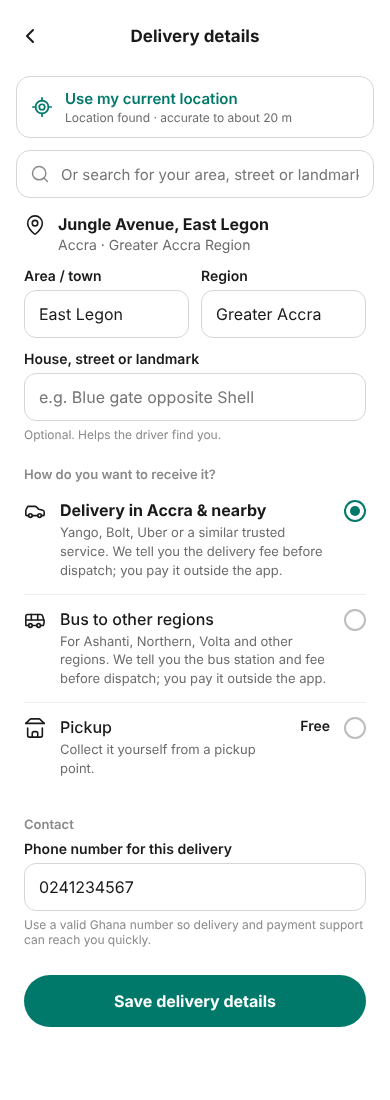
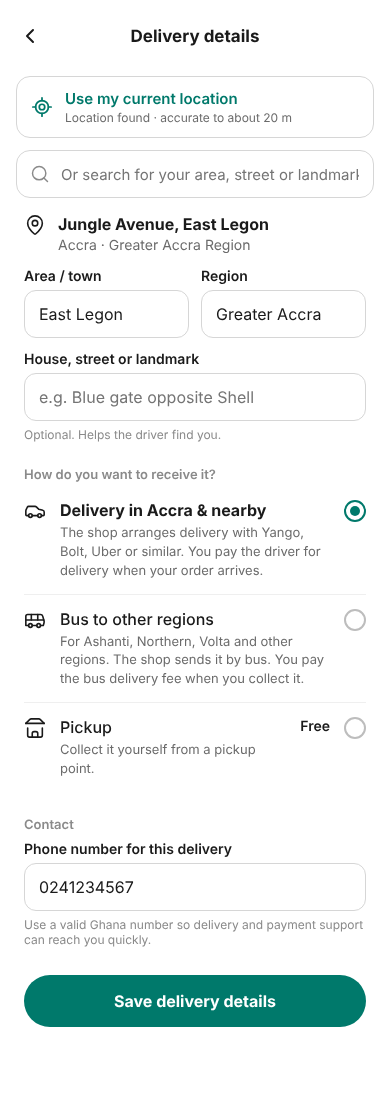
Design proposal: shop arranges delivery, customer pays driver on arrival
Claude-Session: https://claude.ai/code/session_01SbEcenhopHZbQU3YJabaBM

diff --git a/docs/design/location-checkout-20261128/TrackOrder.dc.html b/docs/design/location-checkout-20261128/TrackOrder.dc.html
@@ -21,12 +21,12 @@
   <div style="padding: 4px 24px 0">
     <div style="display: flex; gap: 14px; min-height: 62px"><div style="display: flex; flex-direction: column; align-items: center"><span style="width: 22px; height: 22px; border-radius: 11px; background: #00796B; display: grid; place-items: center"><svg style="flex-shrink: 0" width="14" height="14" viewBox="0 0 24 24" fill="none" stroke="#FFFFFF" stroke-width="3" stroke-linecap="round" stroke-linejoin="round" aria-hidden="true"><path d="M20 6 9 17l-5-5"/></svg></span><span style="flex: 1; width: 2px; background: #00796B; margin: 2px 0"></span></div><div style="padding-top: 1px"><div style="font-size: 15px; font-weight: 500; color: #1A1A1A">Order placed</div><div style="font-size: 13px; color: #6B6B6B; margin-top: 2px">28 Nov, 10:42 · Payment received</div></div></div>
     <div style="display: flex; gap: 14px; min-height: 62px"><div style="display: flex; flex-direction: column; align-items: center"><span style="width: 22px; height: 22px; border-radius: 11px; background: #00796B; display: grid; place-items: center"><svg style="flex-shrink: 0" width="14" height="14" viewBox="0 0 24 24" fill="none" stroke="#FFFFFF" stroke-width="3" stroke-linecap="round" stroke-linejoin="round" aria-hidden="true"><path d="M20 6 9 17l-5-5"/></svg></span><span style="flex: 1; width: 2px; background: #00796B; margin: 2px 0"></span></div><div style="padding-top: 1px"><div style="font-size: 15px; font-weight: 500; color: #1A1A1A">Preparing delivery</div><div style="font-size: 13px; color: #6B6B6B; margin-top: 2px">28 Nov, 11:05 · The shop is getting it ready</div></div></div>
-    <div style="display: flex; gap: 14px; min-height: 62px"><div style="display: flex; flex-direction: column; align-items: center"><span style="width: 22px; height: 22px; border-radius: 11px; border: 2px solid #00796B; box-sizing: border-box; display: grid; place-items: center"><span style="width: 10px; height: 10px; border-radius: 5px; background: #00796B"></span></span><span style="flex: 1; width: 2px; background: #E3E3E3; margin: 2px 0"></span></div><div style="padding-top: 1px"><div style="font-size: 15px; font-weight: 700; color: #1A1A1A">Packaged</div><div style="font-size: 13px; color: #6B6B6B; margin-top: 2px">28 Nov, 14:20 · We&#x27;ll send your delivery fee next</div></div></div>
+    <div style="display: flex; gap: 14px; min-height: 62px"><div style="display: flex; flex-direction: column; align-items: center"><span style="width: 22px; height: 22px; border-radius: 11px; border: 2px solid #00796B; box-sizing: border-box; display: grid; place-items: center"><span style="width: 10px; height: 10px; border-radius: 5px; background: #00796B"></span></span><span style="flex: 1; width: 2px; background: #E3E3E3; margin: 2px 0"></span></div><div style="padding-top: 1px"><div style="font-size: 15px; font-weight: 700; color: #1A1A1A">Packaged</div><div style="font-size: 13px; color: #6B6B6B; margin-top: 2px">28 Nov, 14:20 · The shop is arranging delivery</div></div></div>
     <div style="display: flex; gap: 14px; min-height: 62px"><div style="display: flex; flex-direction: column; align-items: center"><span style="width: 22px; height: 22px; border-radius: 11px; border: 2px solid #D0D0D0; box-sizing: border-box"></span><span style="flex: 1; width: 2px; background: #E3E3E3; margin: 2px 0"></span></div><div style="padding-top: 1px"><div style="font-size: 15px; font-weight: 500; color: #9A9A9A">On the way</div><div style="font-size: 13px; color: #6B6B6B; margin-top: 2px">Yango, Bolt, Uber or similar</div></div></div>
     <div style="display: flex; gap: 14px; min-height: 44px"><div style="display: flex; flex-direction: column; align-items: center"><span style="width: 22px; height: 22px; border-radius: 11px; border: 2px solid #D0D0D0; box-sizing: border-box"></span></div><div style="padding-top: 1px"><div style="font-size: 15px; font-weight: 500; color: #9A9A9A">Completed</div><div style="font-size: 13px; color: #6B6B6B; margin-top: 2px">You&#x27;ve received your parcel</div></div></div>
   </div>
-<div style="padding: 24px 24px 4px; font-size: 13px; font-weight: 600; color: #8A8A8A">Delivery fee</div>
-  <div style="margin: 0 24px; display: flex; gap: 14px; align-items: flex-start; padding: 6px 0 14px; border-bottom: 1px solid #EFEFEF"><svg style="flex-shrink: 0" width="22" height="22" viewBox="0 0 24 24" fill="none" stroke="#1A1A1A" stroke-width="1.75" stroke-linecap="round" stroke-linejoin="round" aria-hidden="true"><path d="M14 18V6a2 2 0 0 0-2-2H4a2 2 0 0 0-2 2v11a1 1 0 0 0 1 1h2"/><path d="M15 18H9"/><path d="M19 18h2a1 1 0 0 0 1-1v-3.65a1 1 0 0 0-.22-.624l-3.48-4.35A1 1 0 0 0 17.52 8H14"/><circle cx="17" cy="18" r="2"/><circle cx="7" cy="18" r="2"/></svg><div style="flex: 1"><div style="display: flex; justify-content: space-between; font-size: 15px; font-weight: 600"><span>To be confirmed</span></div><div style="font-size: 13px; color: #6B6B6B; margin-top: 3px; line-height: 1.45">We'll send you the amount here before dispatch. You pay it outside the app when delivery is arranged.</div></div></div>
+<div style="padding: 24px 24px 4px; font-size: 13px; font-weight: 600; color: #8A8A8A">Delivery</div>
+  <div style="margin: 0 24px; display: flex; gap: 14px; align-items: flex-start; padding: 6px 0 14px; border-bottom: 1px solid #EFEFEF"><svg style="flex-shrink: 0" width="22" height="22" viewBox="0 0 24 24" fill="none" stroke="#1A1A1A" stroke-width="1.75" stroke-linecap="round" stroke-linejoin="round" aria-hidden="true"><path d="M14 18V6a2 2 0 0 0-2-2H4a2 2 0 0 0-2 2v11a1 1 0 0 0 1 1h2"/><path d="M15 18H9"/><path d="M19 18h2a1 1 0 0 0 1-1v-3.65a1 1 0 0 0-.22-.624l-3.48-4.35A1 1 0 0 0 17.52 8H14"/><circle cx="17" cy="18" r="2"/><circle cx="7" cy="18" r="2"/></svg><div style="flex: 1"><div style="display: flex; justify-content: space-between; font-size: 15px; font-weight: 600"><span>Arranged by Adwoa Styles</span></div><div style="font-size: 13px; color: #6B6B6B; margin-top: 3px; line-height: 1.45">Sent with Yango, Bolt, Uber or similar. You pay the driver for delivery when your parcel arrives.</div></div></div>
 <div style="padding: 24px 24px 4px; font-size: 13px; font-weight: 600; color: #8A8A8A">Deliver to</div>
   <div style="margin: 0 24px; padding: 6px 0 14px; border-bottom: 1px solid #EFEFEF; display: flex; gap: 14px"><svg style="flex-shrink: 0" width="22" height="22" viewBox="0 0 24 24" fill="none" stroke="#1A1A1A" stroke-width="1.75" stroke-linecap="round" stroke-linejoin="round" aria-hidden="true"><path d="M20 10c0 4.993-5.539 10.193-7.399 11.799a1 1 0 0 1-1.202 0C9.539 20.193 4 14.993 4 10a8 8 0 0 1 16 0"/><circle cx="12" cy="10" r="3"/></svg><div><div style="font-size: 15px; font-weight: 600">Jungle Avenue, East Legon</div><div style="font-size: 13px; color: #6B6B6B; margin-top: 2px">Accra · Greater Accra Region</div><div style="display: flex; align-items: center; gap: 8px; font-size: 14px; margin-top: 8px"><svg style="flex-shrink: 0" width="18" height="18" viewBox="0 0 24 24" fill="none" stroke="#1A1A1A" stroke-width="1.75" stroke-linecap="round" stroke-linejoin="round" aria-hidden="true"><path d="M19 17h2c.6 0 1-.4 1-1v-3c0-.9-.7-1.7-1.5-1.9C18.7 10.6 16 10 16 10s-1.3-1.4-2.2-2.3c-.5-.4-1.1-.7-1.8-.7H5c-.6 0-1.1.4-1.4.9l-1.4 2.9A3.7 3.7 0 0 0 2 12v4c0 .6.4 1 1 1h2"/><circle cx="7" cy="17" r="2"/><path d="M9 17h6"/><circle cx="17" cy="17" r="2"/></svg>Delivery in Accra & nearby</div><div style="display: flex; align-items: center; gap: 8px; font-size: 14px; margin-top: 6px"><svg style="flex-shrink: 0" width="18" height="18" viewBox="0 0 24 24" fill="none" stroke="#1A1A1A" stroke-width="1.75" stroke-linecap="round" stroke-linejoin="round" aria-hidden="true"><path d="M22 16.92v3a2 2 0 0 1-2.18 2 19.79 19.79 0 0 1-8.63-3.07 19.5 19.5 0 0 1-6-6 19.79 19.79 0 0 1-3.07-8.67A2 2 0 0 1 4.11 2h3a2 2 0 0 1 2 1.72 12.84 12.84 0 0 0 .7 2.81 2 2 0 0 1-.45 2.11L8.09 9.91a16 16 0 0 0 6 6l1.27-1.27a2 2 0 0 1 2.11-.45 12.84 12.84 0 0 0 2.81.7A2 2 0 0 1 22 16.92z"/></svg>024 123 4567</div></div></div>
 <div style="padding: 24px 24px 4px; font-size: 13px; font-weight: 600; color: #8A8A8A">Items</div>

diff --git a/docs/design/location-checkout-20261128/LocationPickup.dc.html b/docs/design/location-checkout-20261128/LocationPickup.dc.html
@@ -24,8 +24,8 @@
   <div style="display: flex; gap: 12px; align-items: flex-start; margin: 16px 24px 0"><svg style="flex-shrink: 0" width="22" height="22" viewBox="0 0 24 24" fill="none" stroke="#1A1A1A" stroke-width="1.75" stroke-linecap="round" stroke-linejoin="round" aria-hidden="true"><path d="M20 10c0 4.993-5.539 10.193-7.399 11.799a1 1 0 0 1-1.202 0C9.539 20.193 4 14.993 4 10a8 8 0 0 1 16 0"/><circle cx="12" cy="10" r="3"/></svg><div style="flex: 1"><div style="font-size: 16px; font-weight: 700">Jungle Avenue, East Legon</div><div style="font-size: 14px; color: #6B6B6B; margin-top: 2px">Accra · Greater Accra Region</div></div></div>
 <div style="padding: 24px 24px 4px; font-size: 13px; font-weight: 600; color: #8A8A8A">How do you want to receive it?</div>
   <div style="padding: 0 24px">
-    <div style="border-bottom: 1px solid #EFEFEF;"><label style="display: flex; align-items: flex-start; gap: 14px; padding: 14px 0; cursor: pointer"><svg style="flex-shrink: 0" width="22" height="22" viewBox="0 0 24 24" fill="none" stroke="#1A1A1A" stroke-width="1.75" stroke-linecap="round" stroke-linejoin="round" aria-hidden="true"><path d="M19 17h2c.6 0 1-.4 1-1v-3c0-.9-.7-1.7-1.5-1.9C18.7 10.6 16 10 16 10s-1.3-1.4-2.2-2.3c-.5-.4-1.1-.7-1.8-.7H5c-.6 0-1.1.4-1.4.9l-1.4 2.9A3.7 3.7 0 0 0 2 12v4c0 .6.4 1 1 1h2"/><circle cx="7" cy="17" r="2"/><path d="M9 17h6"/><circle cx="17" cy="17" r="2"/></svg><span style="flex: 1"><span style="display: block; font-size: 16px; font-weight: 500">Delivery in Accra &amp; nearby</span><span style="display: block; font-size: 13px; color: #6B6B6B; margin-top: 3px; line-height: 1.45">Yango, Bolt, Uber or a similar trusted service. We tell you the delivery fee before dispatch; you pay it outside the app.</span></span><span style="width: 22px; height: 22px; border-radius: 11px; border: 2px solid #BDBDBD; box-sizing: border-box; flex-shrink: 0"></span></label></div>
-    <div style="border-bottom: 1px solid #EFEFEF;"><label style="display: flex; align-items: flex-start; gap: 14px; padding: 14px 0; cursor: pointer"><svg style="flex-shrink: 0" width="22" height="22" viewBox="0 0 24 24" fill="none" stroke="#1A1A1A" stroke-width="1.75" stroke-linecap="round" stroke-linejoin="round" aria-hidden="true"><path d="M8 6v6"/><path d="M15 6v6"/><path d="M2 12h19.6"/><path d="M18 18h3s.5-1.7.8-2.8c.1-.4.2-.8.2-1.2 0-.4-.1-.8-.2-1.2l-1.4-5C20.1 6.8 19.1 6 18 6H4a2 2 0 0 0-2 2v10h3"/><circle cx="7" cy="18" r="2"/><path d="M9 18h5"/><circle cx="16" cy="18" r="2"/></svg><span style="flex: 1"><span style="display: block; font-size: 16px; font-weight: 500">Bus to other regions</span><span style="display: block; font-size: 13px; color: #6B6B6B; margin-top: 3px; line-height: 1.45">For Ashanti, Northern, Volta and other regions. We tell you the bus station and fee before dispatch; you pay it outside the app.</span></span><span style="width: 22px; height: 22px; border-radius: 11px; border: 2px solid #BDBDBD; box-sizing: border-box; flex-shrink: 0"></span></label></div>
+    <div style="border-bottom: 1px solid #EFEFEF;"><label style="display: flex; align-items: flex-start; gap: 14px; padding: 14px 0; cursor: pointer"><svg style="flex-shrink: 0" width="22" height="22" viewBox="0 0 24 24" fill="none" stroke="#1A1A1A" stroke-width="1.75" stroke-linecap="round" stroke-linejoin="round" aria-hidden="true"><path d="M19 17h2c.6 0 1-.4 1-1v-3c0-.9-.7-1.7-1.5-1.9C18.7 10.6 16 10 16 10s-1.3-1.4-2.2-2.3c-.5-.4-1.1-.7-1.8-.7H5c-.6 0-1.1.4-1.4.9l-1.4 2.9A3.7 3.7 0 0 0 2 12v4c0 .6.4 1 1 1h2"/><circle cx="7" cy="17" r="2"/><path d="M9 17h6"/><circle cx="17" cy="17" r="2"/></svg><span style="flex: 1"><span style="display: block; font-size: 16px; font-weight: 500">Delivery in Accra &amp; nearby</span><span style="display: block; font-size: 13px; color: #6B6B6B; margin-top: 3px; line-height: 1.45">The shop arranges delivery with Yango, Bolt, Uber or similar. You pay the driver for delivery when your order arrives.</span></span><span style="width: 22px; height: 22px; border-radius: 11px; border: 2px solid #BDBDBD; box-sizing: border-box; flex-shrink: 0"></span></label></div>
+    <div style="border-bottom: 1px solid #EFEFEF;"><label style="display: flex; align-items: flex-start; gap: 14px; padding: 14px 0; cursor: pointer"><svg style="flex-shrink: 0" width="22" height="22" viewBox="0 0 24 24" fill="none" stroke="#1A1A1A" stroke-width="1.75" stroke-linecap="round" stroke-linejoin="round" aria-hidden="true"><path d="M8 6v6"/><path d="M15 6v6"/><path d="M2 12h19.6"/><path d="M18 18h3s.5-1.7.8-2.8c.1-.4.2-.8.2-1.2 0-.4-.1-.8-.2-1.2l-1.4-5C20.1 6.8 19.1 6 18 6H4a2 2 0 0 0-2 2v10h3"/><circle cx="7" cy="18" r="2"/><path d="M9 18h5"/><circle cx="16" cy="18" r="2"/></svg><span style="flex: 1"><span style="display: block; font-size: 16px; font-weight: 500">Bus to other regions</span><span style="display: block; font-size: 13px; color: #6B6B6B; margin-top: 3px; line-height: 1.45">For Ashanti, Northern, Volta and other regions. The shop sends it by bus. You pay the bus delivery fee when you collect it.</span></span><span style="width: 22px; height: 22px; border-radius: 11px; border: 2px solid #BDBDBD; box-sizing: border-box; flex-shrink: 0"></span></label></div>
     <div style=""><label style="display: flex; align-items: flex-start; gap: 14px; padding: 14px 0; cursor: pointer"><svg style="flex-shrink: 0" width="22" height="22" viewBox="0 0 24 24" fill="none" stroke="#1A1A1A" stroke-width="1.75" stroke-linecap="round" stroke-linejoin="round" aria-hidden="true"><path d="m2 7 4.41-4.41A2 2 0 0 1 7.83 2h8.34a2 2 0 0 1 1.42.59L22 7"/><path d="M4 12v8a2 2 0 0 0 2 2h12a2 2 0 0 0 2-2v-8"/><path d="M15 22v-4a2 2 0 0 0-2-2h-2a2 2 0 0 0-2 2v4"/><path d="M2 7h20"/></svg><span style="flex: 1"><span style="display: block; font-size: 16px; font-weight: 700">Pickup</span><span style="display: block; font-size: 13px; color: #6B6B6B; margin-top: 3px; line-height: 1.45">Collect it yourself from a pickup point.</span></span><span style="font-size: 14px; font-weight: 600; color: #1A1A1A">Free</span><span style="width: 22px; height: 22px; border-radius: 11px; border: 2px solid #00796B; box-sizing: border-box; display: grid; place-items: center; flex-shrink: 0"><span style="width: 10px; height: 10px; border-radius: 5px; background: #00796B"></span></span></label><div style="margin: 0 0 14px 36px; padding: 16px 14px; border: 1px dashed #D6D6D6; border-radius: 14px; text-align: center"><div style="display: grid; place-items: center"><svg style="flex-shrink: 0" width="26" height="26" viewBox="0 0 24 24" fill="none" stroke="#9A9A9A" stroke-width="1.75" stroke-linecap="round" stroke-linejoin="round" aria-hidden="true"><path d="m2 7 4.41-4.41A2 2 0 0 1 7.83 2h8.34a2 2 0 0 1 1.42.59L22 7"/><path d="M4 12v8a2 2 0 0 0 2 2h12a2 2 0 0 0 2-2v-8"/><path d="M15 22v-4a2 2 0 0 0-2-2h-2a2 2 0 0 0-2 2v4"/><path d="M2 7h20"/></svg></div><div style="font-size: 15px; font-weight: 600; margin-top: 8px">No pickup points yet</div><div style="font-size: 13px; color: #6B6B6B; margin-top: 4px; line-height: 1.45">Pickup points will show here once KiyuMart adds them. Choose delivery for now.</div></div></div>
   </div>
 <div style="padding: 24px 24px 4px; font-size: 13px; font-weight: 600; color: #8A8A8A">Contact</div>

diff --git a/docs/design/location-checkout-20261128/Checkout.dc.html b/docs/design/location-checkout-20261128/Checkout.dc.html
@@ -27,13 +27,13 @@
       <div style="display: flex; gap: 12px; align-items: center; padding: 10px 0"><img src="/_blob/d2cd13250c687be80f07eaad5f139426" alt="" style="width: 52px; height: 64px; border-radius: 10px; object-fit: cover; flex-shrink: 0"><span style="flex: 1; min-width: 0"><span style="display: block; font-size: 15px">Embroidered abaya</span><span style="display: block; font-size: 13px; color: #6B6B6B; margin-top: 2px">Size M · Black · Qty 1</span></span><span style="font-size: 15px; font-weight: 600">GH₵520.00</span></div>
       <div style="display: flex; gap: 12px; align-items: center; padding: 10px 0"><img src="/_blob/d5f1b66bfa8fa6f8d148a918b7a338c2" alt="" style="width: 52px; height: 64px; border-radius: 10px; object-fit: cover; flex-shrink: 0"><span style="flex: 1; min-width: 0"><span style="display: block; font-size: 15px">Leather tote bag</span><span style="display: block; font-size: 13px; color: #6B6B6B; margin-top: 2px">Brown · Qty 1</span></span><span style="font-size: 15px; font-weight: 600">GH₵180.00</span></div>
       <div style="display: flex; align-items: center; gap: 10px; padding: 10px 0 12px; font-size: 14px"><svg style="flex-shrink: 0" width="18" height="18" viewBox="0 0 24 24" fill="none" stroke="#00796B" stroke-width="1.75" stroke-linecap="round" stroke-linejoin="round" aria-hidden="true"><path d="M12.586 2.586A2 2 0 0 0 11.172 2H4a2 2 0 0 0-2 2v7.172a2 2 0 0 0 .586 1.414l8.704 8.704a2.426 2.426 0 0 0 3.42 0l6.58-6.58a2.426 2.426 0 0 0 0-3.42z"/><circle cx="7.5" cy="7.5" r=".5"/></svg><span style="flex: 1; color: #00796B; font-weight: 600">KIYU10 applied</span><span style="font-weight: 600; color: #00796B">−GH₵70.00</span></div>
-    <div style="font-size: 13px; color: #6B6B6B; padding: 0 0 10px">Delivery fee from this shop: sent to you before dispatch</div>
+    <div style="font-size: 13px; color: #6B6B6B; padding: 0 0 10px">Delivery: arranged by this shop · pay the driver on arrival</div>
   </div>
   <div style="margin: 0 24px; border-bottom: 1px solid #EFEFEF; padding: 14px 0 4px">
     <div style="display: flex; align-items: center; gap: 10px; font-size: 15px; font-weight: 700"><svg style="flex-shrink: 0" width="20" height="20" viewBox="0 0 24 24" fill="none" stroke="#1A1A1A" stroke-width="1.75" stroke-linecap="round" stroke-linejoin="round" aria-hidden="true"><path d="m2 7 4.41-4.41A2 2 0 0 1 7.83 2h8.34a2 2 0 0 1 1.42.59L22 7"/><path d="M4 12v8a2 2 0 0 0 2 2h12a2 2 0 0 0 2-2v-8"/><path d="M15 22v-4a2 2 0 0 0-2-2h-2a2 2 0 0 0-2 2v4"/><path d="M2 7h20"/></svg>Kente House<span style="margin-left: auto; font-size: 12px; font-weight: 500; color: #6B6B6B">Parcel 2 of 2</span></div>
       <div style="display: flex; gap: 12px; align-items: center; padding: 10px 0"><img src="/_blob/a3366be63735d2c737b76c9532b15e55" alt="" style="width: 52px; height: 64px; border-radius: 10px; object-fit: cover; flex-shrink: 0"><span style="flex: 1; min-width: 0"><span style="display: block; font-size: 15px">Kente bomber jacket</span><span style="display: block; font-size: 13px; color: #6B6B6B; margin-top: 2px">Size L · Qty 1</span></span><span style="font-size: 15px; font-weight: 600">GH₵350.00</span></div>
       <div style="display: flex; align-items: center; gap: 10px; padding: 10px 0 12px; font-size: 14px"><svg style="flex-shrink: 0" width="18" height="18" viewBox="0 0 24 24" fill="none" stroke="#00796B" stroke-width="1.75" stroke-linecap="round" stroke-linejoin="round" aria-hidden="true"><path d="M12.586 2.586A2 2 0 0 0 11.172 2H4a2 2 0 0 0-2 2v7.172a2 2 0 0 0 .586 1.414l8.704 8.704a2.426 2.426 0 0 0 3.42 0l6.58-6.58a2.426 2.426 0 0 0 0-3.42z"/><circle cx="7.5" cy="7.5" r=".5"/></svg><span style="flex: 1; color: #00796B; font-weight: 600">KENTE50 applied</span><span style="font-weight: 600; color: #00796B">−GH₵50.00</span></div>
-    <div style="font-size: 13px; color: #6B6B6B; padding: 0 0 10px">Delivery fee from this shop: sent to you before dispatch</div>
+    <div style="font-size: 13px; color: #6B6B6B; padding: 0 0 10px">Delivery: arranged by this shop · pay the driver on arrival</div>
   </div>
 <div style="padding: 24px 24px 4px; font-size: 13px; font-weight: 600; color: #8A8A8A">Payment</div>
   <div style="margin: 0 24px; display: flex; gap: 14px; align-items: flex-start; padding: 8px 0 14px; border-bottom: 1px solid #EFEFEF"><svg style="flex-shrink: 0" width="22" height="22" viewBox="0 0 24 24" fill="none" stroke="#1A1A1A" stroke-width="1.75" stroke-linecap="round" stroke-linejoin="round" aria-hidden="true"><path d="M20 13c0 5-3.5 7.5-7.66 8.95a1 1 0 0 1-.67-.01C7.5 20.5 4 18 4 13V6a1 1 0 0 1 1-1c2 0 4.5-1.2 6.24-2.72a1.17 1.17 0 0 1 1.52 0C14.51 3.81 17 5 19 5a1 1 0 0 1 1 1z"/><path d="m9 12 2 2 4-4"/></svg><div><div style="font-size: 15px; font-weight: 600">Paystack — Mobile Money or card</div><div style="font-size: 13px; color: #6B6B6B; margin-top: 3px; line-height: 1.45">You pay securely in a Paystack window. KiyuMart never sees your card or MoMo PIN.</div></div></div>
@@ -41,7 +41,7 @@
   <div style="padding: 0 24px">
     <div style="display: flex; justify-content: space-between; align-items: flex-start; padding: 7px 0; font-size: 15px; font-weight: 400"><span>Items (3)</span><span style="color: #1A1A1A; text-align: right">GH₵1,050.00</span></div>
     <div style="display: flex; justify-content: space-between; align-items: flex-start; padding: 7px 0; font-size: 15px; font-weight: 400"><span>Shop coupons</span><span style="color: #00796B; text-align: right">−GH₵120.00</span></div>
-    <div style="display: flex; justify-content: space-between; align-items: flex-start; padding: 7px 0; font-size: 15px; font-weight: 400"><span>Delivery (2 parcels)<span style="display: block; font-size: 12px; color: #8A8A8A; font-weight: 400">We send you each fee before dispatch</span></span><span style="color: #6B6B6B; text-align: right">Paid outside the app</span></div>
+    <div style="display: flex; justify-content: space-between; align-items: flex-start; padding: 7px 0; font-size: 15px; font-weight: 400"><span>Delivery (2 parcels)<span style="display: block; font-size: 12px; color: #8A8A8A; font-weight: 400">Each shop arranges delivery; you pay the driver</span></span><span style="color: #6B6B6B; text-align: right">Pay on arrival</span></div>
     <div style="display: flex; justify-content: space-between; align-items: flex-start; padding: 7px 0; font-size: 15px; font-weight: 400"><span>Charges (Paystack 1.95%)</span><span style="color: #1A1A1A; text-align: right">GH₵18.50</span></div>
     <div style="border-top: 1px solid #EFEFEF; margin-top: 6px; padding-top: 6px"></div>
     <div style="display: flex; justify-content: space-between; align-items: flex-start; padding: 7px 0; font-size: 17px; font-weight: 700"><span>Total to pay now</span><span style="color: #1A1A1A; text-align: right">GH₵948.50</span></div>

diff --git a/docs/design/location-checkout-20261128/Location.dc.html b/docs/design/location-checkout-20261128/Location.dc.html
@@ -39,8 +39,8 @@
   </div>
 <div style="padding: 24px 24px 4px; font-size: 13px; font-weight: 600; color: #8A8A8A">How do you want to receive it?</div>
   <div style="padding: 0 24px">
-    <div style="border-bottom: 1px solid #EFEFEF;"><label style="display: flex; align-items: flex-start; gap: 14px; padding: 14px 0; cursor: pointer"><svg style="flex-shrink: 0" width="22" height="22" viewBox="0 0 24 24" fill="none" stroke="#1A1A1A" stroke-width="1.75" stroke-linecap="round" stroke-linejoin="round" aria-hidden="true"><path d="M19 17h2c.6 0 1-.4 1-1v-3c0-.9-.7-1.7-1.5-1.9C18.7 10.6 16 10 16 10s-1.3-1.4-2.2-2.3c-.5-.4-1.1-.7-1.8-.7H5c-.6 0-1.1.4-1.4.9l-1.4 2.9A3.7 3.7 0 0 0 2 12v4c0 .6.4 1 1 1h2"/><circle cx="7" cy="17" r="2"/><path d="M9 17h6"/><circle cx="17" cy="17" r="2"/></svg><span style="flex: 1"><span style="display: block; font-size: 16px; font-weight: 700">Delivery in Accra &amp; nearby</span><span style="display: block; font-size: 13px; color: #6B6B6B; margin-top: 3px; line-height: 1.45">Yango, Bolt, Uber or a similar trusted service. We tell you the delivery fee before dispatch; you pay it outside the app.</span></span><span style="width: 22px; height: 22px; border-radius: 11px; border: 2px solid #00796B; box-sizing: border-box; display: grid; place-items: center; flex-shrink: 0"><span style="width: 10px; height: 10px; border-radius: 5px; background: #00796B"></span></span></label></div>
-    <div style="border-bottom: 1px solid #EFEFEF;"><label style="display: flex; align-items: flex-start; gap: 14px; padding: 14px 0; cursor: pointer"><svg style="flex-shrink: 0" width="22" height="22" viewBox="0 0 24 24" fill="none" stroke="#1A1A1A" stroke-width="1.75" stroke-linecap="round" stroke-linejoin="round" aria-hidden="true"><path d="M8 6v6"/><path d="M15 6v6"/><path d="M2 12h19.6"/><path d="M18 18h3s.5-1.7.8-2.8c.1-.4.2-.8.2-1.2 0-.4-.1-.8-.2-1.2l-1.4-5C20.1 6.8 19.1 6 18 6H4a2 2 0 0 0-2 2v10h3"/><circle cx="7" cy="18" r="2"/><path d="M9 18h5"/><circle cx="16" cy="18" r="2"/></svg><span style="flex: 1"><span style="display: block; font-size: 16px; font-weight: 500">Bus to other regions</span><span style="display: block; font-size: 13px; color: #6B6B6B; margin-top: 3px; line-height: 1.45">For Ashanti, Northern, Volta and other regions. We tell you the bus station and fee before dispatch; you pay it outside the app.</span></span><span style="width: 22px; height: 22px; border-radius: 11px; border: 2px solid #BDBDBD; box-sizing: border-box; flex-shrink: 0"></span></label></div>
+    <div style="border-bottom: 1px solid #EFEFEF;"><label style="display: flex; align-items: flex-start; gap: 14px; padding: 14px 0; cursor: pointer"><svg style="flex-shrink: 0" width="22" height="22" viewBox="0 0 24 24" fill="none" stroke="#1A1A1A" stroke-width="1.75" stroke-linecap="round" stroke-linejoin="round" aria-hidden="true"><path d="M19 17h2c.6 0 1-.4 1-1v-3c0-.9-.7-1.7-1.5-1.9C18.7 10.6 16 10 16 10s-1.3-1.4-2.2-2.3c-.5-.4-1.1-.7-1.8-.7H5c-.6 0-1.1.4-1.4.9l-1.4 2.9A3.7 3.7 0 0 0 2 12v4c0 .6.4 1 1 1h2"/><circle cx="7" cy="17" r="2"/><path d="M9 17h6"/><circle cx="17" cy="17" r="2"/></svg><span style="flex: 1"><span style="display: block; font-size: 16px; font-weight: 700">Delivery in Accra &amp; nearby</span><span style="display: block; font-size: 13px; color: #6B6B6B; margin-top: 3px; line-height: 1.45">The shop arranges delivery with Yango, Bolt, Uber or similar. You pay the driver for delivery when your order arrives.</span></span><span style="width: 22px; height: 22px; border-radius: 11px; border: 2px solid #00796B; box-sizing: border-box; display: grid; place-items: center; flex-shrink: 0"><span style="width: 10px; height: 10px; border-radius: 5px; background: #00796B"></span></span></label></div>
+    <div style="border-bottom: 1px solid #EFEFEF;"><label style="display: flex; align-items: flex-start; gap: 14px; padding: 14px 0; cursor: pointer"><svg style="flex-shrink: 0" width="22" height="22" viewBox="0 0 24 24" fill="none" stroke="#1A1A1A" stroke-width="1.75" stroke-linecap="round" stroke-linejoin="round" aria-hidden="true"><path d="M8 6v6"/><path d="M15 6v6"/><path d="M2 12h19.6"/><path d="M18 18h3s.5-1.7.8-2.8c.1-.4.2-.8.2-1.2 0-.4-.1-.8-.2-1.2l-1.4-5C20.1 6.8 19.1 6 18 6H4a2 2 0 0 0-2 2v10h3"/><circle cx="7" cy="18" r="2"/><path d="M9 18h5"/><circle cx="16" cy="18" r="2"/></svg><span style="flex: 1"><span style="display: block; font-size: 16px; font-weight: 500">Bus to other regions</span><span style="display: block; font-size: 13px; color: #6B6B6B; margin-top: 3px; line-height: 1.45">For Ashanti, Northern, Volta and other regions. The shop sends it by bus. You pay the bus delivery fee when you collect it.</span></span><span style="width: 22px; height: 22px; border-radius: 11px; border: 2px solid #BDBDBD; box-sizing: border-box; flex-shrink: 0"></span></label></div>
     <div style=""><label style="display: flex; align-items: flex-start; gap: 14px; padding: 14px 0; cursor: pointer"><svg style="flex-shrink: 0" width="22" height="22" viewBox="0 0 24 24" fill="none" stroke="#1A1A1A" stroke-width="1.75" stroke-linecap="round" stroke-linejoin="round" aria-hidden="true"><path d="m2 7 4.41-4.41A2 2 0 0 1 7.83 2h8.34a2 2 0 0 1 1.42.59L22 7"/><path d="M4 12v8a2 2 0 0 0 2 2h12a2 2 0 0 0 2-2v-8"/><path d="M15 22v-4a2 2 0 0 0-2-2h-2a2 2 0 0 0-2 2v4"/><path d="M2 7h20"/></svg><span style="flex: 1"><span style="display: block; font-size: 16px; font-weight: 500">Pickup</span><span style="display: block; font-size: 13px; color: #6B6B6B; margin-top: 3px; line-height: 1.45">Collect it yourself from a pickup point.</span></span><span style="font-size: 14px; font-weight: 600; color: #1A1A1A">Free</span><span style="width: 22px; height: 22px; border-radius: 11px; border: 2px solid #BDBDBD; box-sizing: border-box; flex-shrink: 0"></span></label></div>
   </div>
 <div style="padding: 24px 24px 4px; font-size: 13px; font-weight: 600; color: #8A8A8A">Contact</div>

diff --git a/docs/design/location-checkout-20261128/LocationNoMap.dc.html b/docs/design/location-checkout-20261128/LocationNoMap.dc.html
@@ -34,8 +34,8 @@
   </div>
 <div style="padding: 24px 24px 4px; font-size: 13px; font-weight: 600; color: #8A8A8A">How do you want to receive it?</div>
   <div style="padding: 0 24px">
-    <div style="border-bottom: 1px solid #EFEFEF;"><label style="display: flex; align-items: flex-start; gap: 14px; padding: 14px 0; cursor: pointer"><svg style="flex-shrink: 0" width="22" height="22" viewBox="0 0 24 24" fill="none" stroke="#1A1A1A" stroke-width="1.75" stroke-linecap="round" stroke-linejoin="round" aria-hidden="true"><path d="M19 17h2c.6 0 1-.4 1-1v-3c0-.9-.7-1.7-1.5-1.9C18.7 10.6 16 10 16 10s-1.3-1.4-2.2-2.3c-.5-.4-1.1-.7-1.8-.7H5c-.6 0-1.1.4-1.4.9l-1.4 2.9A3.7 3.7 0 0 0 2 12v4c0 .6.4 1 1 1h2"/><circle cx="7" cy="17" r="2"/><path d="M9 17h6"/><circle cx="17" cy="17" r="2"/></svg><span style="flex: 1"><span style="display: block; font-size: 16px; font-weight: 700">Delivery in Accra &amp; nearby</span><span style="display: block; font-size: 13px; color: #6B6B6B; margin-top: 3px; line-height: 1.45">Yango, Bolt, Uber or a similar trusted service. We tell you the delivery fee before dispatch; you pay it outside the app.</span></span><span style="width: 22px; height: 22px; border-radius: 11px; border: 2px solid #00796B; box-sizing: border-box; display: grid; place-items: center; flex-shrink: 0"><span style="width: 10px; height: 10px; border-radius: 5px; background: #00796B"></span></span></label></div>
-    <div style="border-bottom: 1px solid #EFEFEF;"><label style="display: flex; align-items: flex-start; gap: 14px; padding: 14px 0; cursor: pointer"><svg style="flex-shrink: 0" width="22" height="22" viewBox="0 0 24 24" fill="none" stroke="#1A1A1A" stroke-width="1.75" stroke-linecap="round" stroke-linejoin="round" aria-hidden="true"><path d="M8 6v6"/><path d="M15 6v6"/><path d="M2 12h19.6"/><path d="M18 18h3s.5-1.7.8-2.8c.1-.4.2-.8.2-1.2 0-.4-.1-.8-.2-1.2l-1.4-5C20.1 6.8 19.1 6 18 6H4a2 2 0 0 0-2 2v10h3"/><circle cx="7" cy="18" r="2"/><path d="M9 18h5"/><circle cx="16" cy="18" r="2"/></svg><span style="flex: 1"><span style="display: block; font-size: 16px; font-weight: 500">Bus to other regions</span><span style="display: block; font-size: 13px; color: #6B6B6B; margin-top: 3px; line-height: 1.45">For Ashanti, Northern, Volta and other regions. We tell you the bus station and fee before dispatch; you pay it outside the app.</span></span><span style="width: 22px; height: 22px; border-radius: 11px; border: 2px solid #BDBDBD; box-sizing: border-box; flex-shrink: 0"></span></label></div>
+    <div style="border-bottom: 1px solid #EFEFEF;"><label style="display: flex; align-items: flex-start; gap: 14px; padding: 14px 0; cursor: pointer"><svg style="flex-shrink: 0" width="22" height="22" viewBox="0 0 24 24" fill="none" stroke="#1A1A1A" stroke-width="1.75" stroke-linecap="round" stroke-linejoin="round" aria-hidden="true"><path d="M19 17h2c.6 0 1-.4 1-1v-3c0-.9-.7-1.7-1.5-1.9C18.7 10.6 16 10 16 10s-1.3-1.4-2.2-2.3c-.5-.4-1.1-.7-1.8-.7H5c-.6 0-1.1.4-1.4.9l-1.4 2.9A3.7 3.7 0 0 0 2 12v4c0 .6.4 1 1 1h2"/><circle cx="7" cy="17" r="2"/><path d="M9 17h6"/><circle cx="17" cy="17" r="2"/></svg><span style="flex: 1"><span style="display: block; font-size: 16px; font-weight: 700">Delivery in Accra &amp; nearby</span><span style="display: block; font-size: 13px; color: #6B6B6B; margin-top: 3px; line-height: 1.45">The shop arranges delivery with Yango, Bolt, Uber or similar. You pay the driver for delivery when your order arrives.</span></span><span style="width: 22px; height: 22px; border-radius: 11px; border: 2px solid #00796B; box-sizing: border-box; display: grid; place-items: center; flex-shrink: 0"><span style="width: 10px; height: 10px; border-radius: 5px; background: #00796B"></span></span></label></div>
+    <div style="border-bottom: 1px solid #EFEFEF;"><label style="display: flex; align-items: flex-start; gap: 14px; padding: 14px 0; cursor: pointer"><svg style="flex-shrink: 0" width="22" height="22" viewBox="0 0 24 24" fill="none" stroke="#1A1A1A" stroke-width="1.75" stroke-linecap="round" stroke-linejoin="round" aria-hidden="true"><path d="M8 6v6"/><path d="M15 6v6"/><path d="M2 12h19.6"/><path d="M18 18h3s.5-1.7.8-2.8c.1-.4.2-.8.2-1.2 0-.4-.1-.8-.2-1.2l-1.4-5C20.1 6.8 19.1 6 18 6H4a2 2 0 0 0-2 2v10h3"/><circle cx="7" cy="18" r="2"/><path d="M9 18h5"/><circle cx="16" cy="18" r="2"/></svg><span style="flex: 1"><span style="display: block; font-size: 16px; font-weight: 500">Bus to other regions</span><span style="display: block; font-size: 13px; color: #6B6B6B; margin-top: 3px; line-height: 1.45">For Ashanti, Northern, Volta and other regions. The shop sends it by bus. You pay the bus delivery fee when you collect it.</span></span><span style="width: 22px; height: 22px; border-radius: 11px; border: 2px solid #BDBDBD; box-sizing: border-box; flex-shrink: 0"></span></label></div>
     <div style=""><label style="display: flex; align-items: flex-start; gap: 14px; padding: 14px 0; cursor: pointer"><svg style="flex-shrink: 0" width="22" height="22" viewBox="0 0 24 24" fill="none" stroke="#1A1A1A" stroke-width="1.75" stroke-linecap="round" stroke-linejoin="round" aria-hidden="true"><path d="m2 7 4.41-4.41A2 2 0 0 1 7.83 2h8.34a2 2 0 0 1 1.42.59L22 7"/><path d="M4 12v8a2 2 0 0 0 2 2h12a2 2 0 0 0 2-2v-8"/><path d="M15 22v-4a2 2 0 0 0-2-2h-2a2 2 0 0 0-2 2v4"/><path d="M2 7h20"/></svg><span style="flex: 1"><span style="display: block; font-size: 16px; font-weight: 500">Pickup</span><span style="display: block; font-size: 13px; color: #6B6B6B; margin-top: 3px; line-height: 1.45">Collect it yourself from a pickup point.</span></span><span style="font-size: 14px; font-weight: 600; color: #1A1A1A">Free</span><span style="width: 22px; height: 22px; border-radius: 11px; border: 2px solid #BDBDBD; box-sizing: border-box; flex-shrink: 0"></span></label></div>
   </div>
 <div style="padding: 24px 24px 4px; font-size: 13px; font-weight: 600; color: #8A8A8A">Contact</div>

diff --git a/docs/design/location-checkout-20261128/OrderPlaced.dc.html b/docs/design/location-checkout-20261128/OrderPlaced.dc.html
@@ -17,7 +17,7 @@
     <button style="width: 100%; display: flex; align-items: center; gap: 16px; min-height: 56px; padding: 0; border: 0; background: transparent; text-align: left; cursor: pointer; color: #1A1A1A"><svg width="22" height="22" viewBox="0 0 24 24" fill="none" stroke="#1A1A1A" stroke-width="1.75" stroke-linecap="round" stroke-linejoin="round" aria-hidden="true"><path d="m2 7 4.41-4.41A2 2 0 0 1 7.83 2h8.34a2 2 0 0 1 1.42.59L22 7"/><path d="M4 12v8a2 2 0 0 0 2 2h12a2 2 0 0 0 2-2v-8"/><path d="M15 22v-4a2 2 0 0 0-2-2h-2a2 2 0 0 0-2 2v4"/><path d="M2 7h20"/></svg><span style="flex: 1; min-height: 56px; display: flex; align-items: center; gap: 8px; border-bottom: 1px solid #EFEFEF;"><span style="flex: 1"><span style="display: block; font-size: 16px">Adwoa Styles</span><span style="display: block; font-size: 13px; color: #6B6B6B; margin-top: 2px">Parcel 1 · 2 items</span></span><span style="font-size: 14px; color: #8A8A8A">#ORD-1764301234</span><svg width="18" height="18" viewBox="0 0 24 24" fill="none" stroke="#B5B5B5" stroke-width="2" stroke-linecap="round" stroke-linejoin="round" aria-hidden="true"><path d="m9 18 6-6-6-6"/></svg></span></button>
     <button style="width: 100%; display: flex; align-items: center; gap: 16px; min-height: 56px; padding: 0; border: 0; background: transparent; text-align: left; cursor: pointer; color: #1A1A1A"><svg width="22" height="22" viewBox="0 0 24 24" fill="none" stroke="#1A1A1A" stroke-width="1.75" stroke-linecap="round" stroke-linejoin="round" aria-hidden="true"><path d="m2 7 4.41-4.41A2 2 0 0 1 7.83 2h8.34a2 2 0 0 1 1.42.59L22 7"/><path d="M4 12v8a2 2 0 0 0 2 2h12a2 2 0 0 0 2-2v-8"/><path d="M15 22v-4a2 2 0 0 0-2-2h-2a2 2 0 0 0-2 2v4"/><path d="M2 7h20"/></svg><span style="flex: 1; min-height: 56px; display: flex; align-items: center; gap: 8px;"><span style="flex: 1"><span style="display: block; font-size: 16px">Kente House</span><span style="display: block; font-size: 13px; color: #6B6B6B; margin-top: 2px">Parcel 2 · 1 item</span></span><span style="font-size: 14px; color: #8A8A8A">#ORD-1764301235</span><svg width="18" height="18" viewBox="0 0 24 24" fill="none" stroke="#B5B5B5" stroke-width="2" stroke-linecap="round" stroke-linejoin="round" aria-hidden="true"><path d="m9 18 6-6-6-6"/></svg></span></button>
   </div>
-  <div style="display: flex; gap: 10px; margin: 16px 24px 0; font-size: 13px; color: #6B6B6B; line-height: 1.5"><svg style="flex-shrink: 0" width="18" height="18" viewBox="0 0 24 24" fill="none" stroke="#8A8A8A" stroke-width="1.75" stroke-linecap="round" stroke-linejoin="round" aria-hidden="true"><circle cx="12" cy="12" r="10"/><path d="M12 16v-4"/><path d="M12 8h.01"/></svg><span>We&#x27;ll send you each parcel&#x27;s delivery fee in the app before dispatch. You pay it outside the app when delivery is arranged.</span></div>
+  <div style="display: flex; gap: 10px; margin: 16px 24px 0; font-size: 13px; color: #6B6B6B; line-height: 1.5"><svg style="flex-shrink: 0" width="18" height="18" viewBox="0 0 24 24" fill="none" stroke="#8A8A8A" stroke-width="1.75" stroke-linecap="round" stroke-linejoin="round" aria-hidden="true"><circle cx="12" cy="12" r="10"/><path d="M12 16v-4"/><path d="M12 8h.01"/></svg><span>Each shop arranges delivery of its parcel. You pay the driver for delivery when it arrives.</span></div>
 <div style="padding: 28px 24px 0"><button style="width: 100%; height: 52px; border: 0; border-radius: 26px; background: #00796B; color: #FFFFFF; font-size: 16px; font-weight: 700; cursor: pointer">Track my orders</button></div>
   <div style="text-align: center; padding-top: 12px"><a href="#" style="font-size: 15px; color: #00796B; font-weight: 600; text-decoration: none">Continue shopping</a></div>
 </div>

diff --git a/docs/design/location-checkout-20261128/CheckoutNoAddress.dc.html b/docs/design/location-checkout-20261128/CheckoutNoAddress.dc.html
@@ -22,7 +22,7 @@
   <div style="padding: 0 24px">
     <div style="display: flex; justify-content: space-between; align-items: flex-start; padding: 7px 0; font-size: 15px; font-weight: 400"><span>Items (3)</span><span style="color: #1A1A1A; text-align: right">GH₵1,050.00</span></div>
     <div style="display: flex; justify-content: space-between; align-items: flex-start; padding: 7px 0; font-size: 15px; font-weight: 400"><span>Shop coupons</span><span style="color: #00796B; text-align: right">−GH₵120.00</span></div>
-    <div style="display: flex; justify-content: space-between; align-items: flex-start; padding: 7px 0; font-size: 15px; font-weight: 400"><span>Delivery (2 parcels)</span><span style="color: #6B6B6B; text-align: right">Paid outside the app</span></div>
+    <div style="display: flex; justify-content: space-between; align-items: flex-start; padding: 7px 0; font-size: 15px; font-weight: 400"><span>Delivery (2 parcels)</span><span style="color: #6B6B6B; text-align: right">Pay on arrival</span></div>
     <div style="display: flex; justify-content: space-between; align-items: flex-start; padding: 7px 0; font-size: 15px; font-weight: 400"><span>Charges (Paystack 1.95%)</span><span style="color: #1A1A1A; text-align: right">GH₵18.50</span></div>
     <div style="border-top: 1px solid #EFEFEF; margin-top: 6px; padding-top: 6px"></div>
     <div style="display: flex; justify-content: space-between; align-items: flex-start; padding: 7px 0; font-size: 17px; font-weight: 700"><span>Total to pay now</span><span style="color: #1A1A1A; text-align: right">GH₵948.50</span></div>

diff --git a/docs/design/location-checkout-20261128/README.md b/docs/design/location-checkout-20261128/README.md
@@ -12,6 +12,6 @@ Fields map to existing checkout state: deliveryAddress, deliveryLat/Lng, deliver
 
 ## Owner feedback round 1 (28 Nov)
 - Map is the app's own map (Esri satellite tiles, Leaflet controls). Not draggable, no movable pin: tapping "Use my current location" centres it on the buyer.
-- The customer pays the delivery fee. We send the amount in the app before dispatch and it's paid outside the app (no phone calls).
+- Delivery wording (round 2): the shop arranges delivery (Yango, Bolt, Uber, bus or rider); the customer pays the driver for delivery when the parcel arrives.
 - Pickup points stay empty until an admin adds them.
 - Added **TrackOrder**: status timeline (Order placed → Preparing delivery → Packaged → On the way → Completed), delivery fee "To be confirmed", deliver-to, items, payment, help button.
